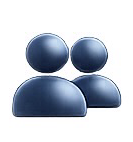
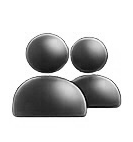
style: タブアイコンを水色（通常）/濃い青（選択）に色分け
PNG をアルファマスク（黒シルエット + 透明背景）に変換。
TabBar は span + mask-image でアイコン形状を切り抜き、
background-color で色を制御。

- 通常時: var(--blue-300) 水色
- 選択時: var(--blue-700) 濃い青 + 軽く拡大

ダークモードでも CSS 変数経由で自動で見やすい色味に。

Changed region(s): [[0.0902, 0.2254, 0.9323, 0.8169]]

diff --git a/src/App.css b/src/App.css
@@ -2373,17 +2373,23 @@ button.friend-chip:hover {
 }
 
 .tab-icon-img {
-  width: auto;
-  height: 28px;
   display: block;
+  width: 30px;
+  height: 28px;
+  background-color: var(--blue-300); /* 通常時: 水色 */
+  -webkit-mask-size: contain;
+  -webkit-mask-repeat: no-repeat;
+  -webkit-mask-position: center;
+  mask-size: contain;
+  mask-repeat: no-repeat;
+  mask-position: center;
   user-select: none;
   pointer-events: none;
-  filter: grayscale(0.45) brightness(0.95);
-  transition: filter 0.15s, transform 0.15s;
+  transition: background-color 0.15s, transform 0.15s;
 }
 
 .tab.active .tab-icon-img {
-  filter: none;
+  background-color: var(--blue-700); /* 選択時: 濃い青 */
   transform: translateY(-1px) scale(1.05);
 }
 

diff --git a/src/components/TabBar.jsx b/src/components/TabBar.jsx
@@ -14,7 +14,13 @@ export default function TabBar({ tabs, active, onChange, locked, badges = {} }) 
           >
             <span className="tab-icon" aria-hidden>
               {t.iconImg ? (
-                <img src={t.iconImg} alt="" className="tab-icon-img" />
+                <span
+                  className="tab-icon-img"
+                  style={{
+                    WebkitMaskImage: `url(${t.iconImg})`,
+                    maskImage: `url(${t.iconImg})`,
+                  }}
+                />
               ) : (
                 t.icon
               )}
